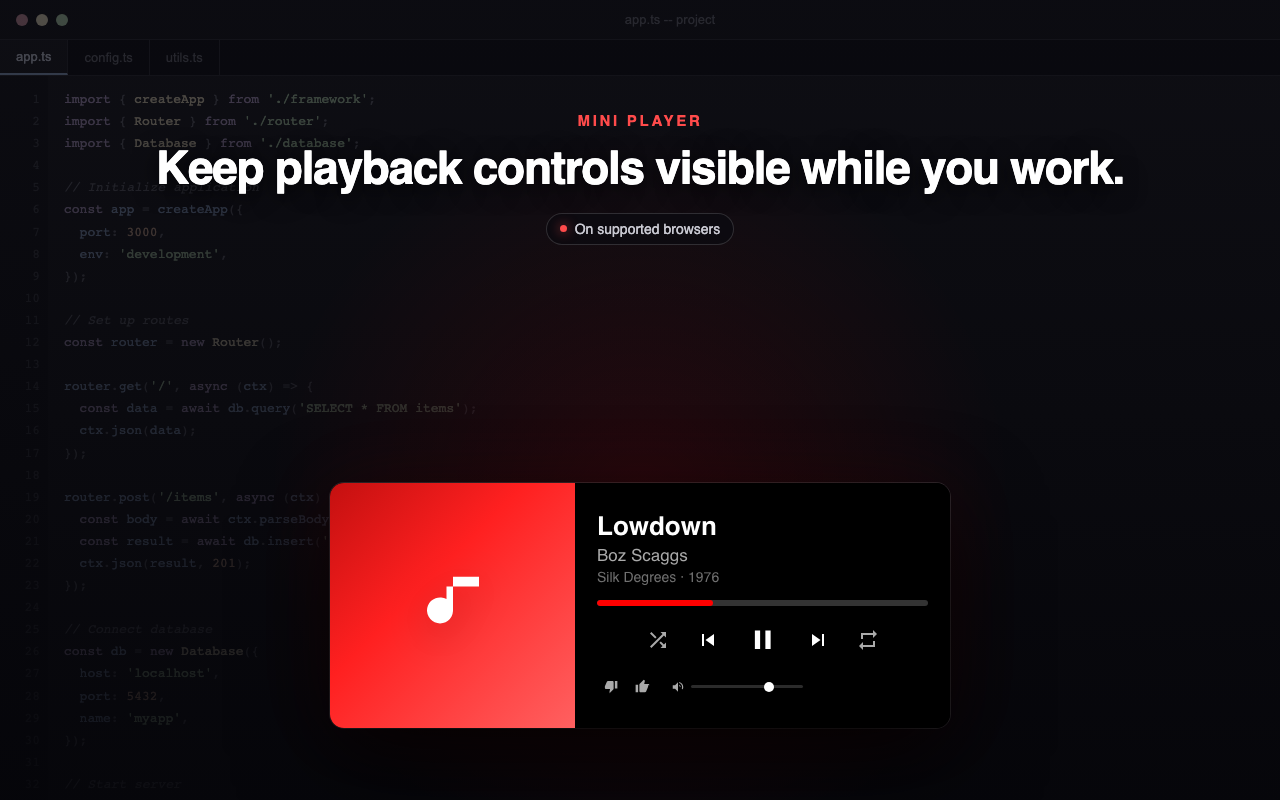
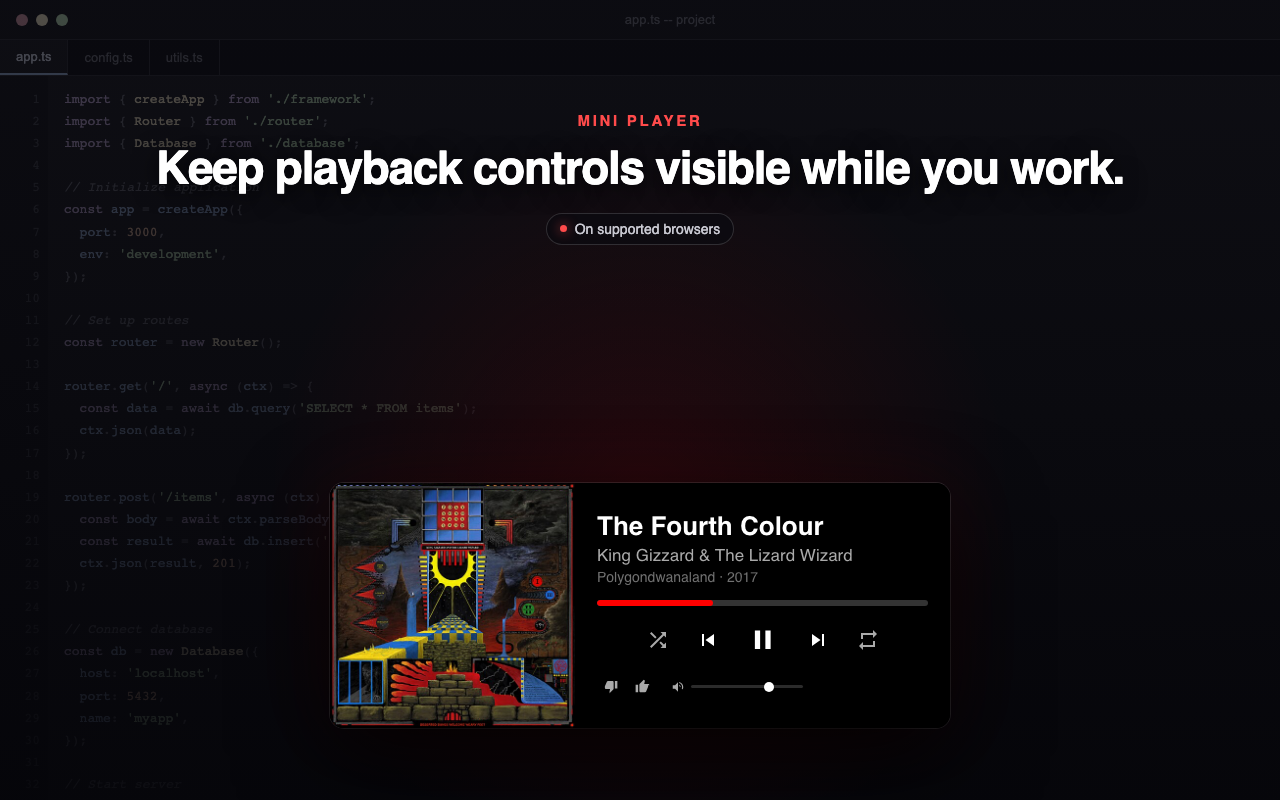
fix(store): use coherent licensed screenshot content

Changed region(s): [[0.25, 0.5938, 0.6562, 0.9375]]

diff --git a/tests/e2e/windows-tray-connector.spec.ts b/tests/e2e/windows-tray-connector.spec.ts
@@ -14,7 +14,6 @@ import {
 
 const execFile = promisify(execFileCallback);
 const SCREENSHOT_PATH_ENV = "YTME_WINDOWS_TRAY_SCREENSHOT_PATH";
-const SCREENSHOT_PLAYBACK_URL_ENV = "YTME_WINDOWS_TRAY_SCREENSHOT_PLAYBACK_URL";
 const SIGNED_INSTALLER_PATH_ENV = "YTME_WINDOWS_TRAY_SIGNED_INSTALLER_PATH";
 const HOLD_RELEASE_PATH_ENV = "YTME_WINDOWS_TRAY_HOLD_RELEASE_PATH";
 const HOLD_TIMEOUT_ENV = "YTME_WINDOWS_TRAY_HOLD_TIMEOUT_SECONDS";
@@ -29,19 +28,6 @@ interface TrayElementSnapshot {
 
 function windowsTraySmokeEnabled(): boolean {
   return process.env.YTME_E2E_WINDOWS_TRAY === "1";
-}
-
-function screenshotPlaybackUrl(): string | null {
-  const value = process.env[SCREENSHOT_PLAYBACK_URL_ENV]?.trim();
-  if (!value) return null;
-
-  const url = new URL(value);
-  if (url.protocol !== "https:" || url.hostname !== "music.youtube.com") {
-    throw new Error(
-      `${SCREENSHOT_PLAYBACK_URL_ENV} must be an https://music.youtube.com URL.`,
-    );
-  }
-  return url.toString();
 }
 
 function signedInstallerPath(): string | null {
@@ -779,6 +765,35 @@ function trayProgressPercent(snapshot: TrayElementSnapshot): number {
   return percent;
 }
 
+async function publishFixturePlaybackState(page: Page): Promise<void> {
+  await page.evaluate(() => {
+    const video = document.querySelector<HTMLVideoElement>(
+      "video.html5-main-video",
+    );
+    if (!video) {
+      throw new Error("Playback fixture is missing its media element.");
+    }
+
+    video.dispatchEvent(new Event("timeupdate"));
+  });
+}
+
+function promoResultPath(resultPath: string, label: string): string {
+  return resultPath.replace(/\.json$/i, `-${label}.json`);
+}
+
+async function unregisterYtmServiceWorkers(page: Page): Promise<void> {
+  if (!page.url().startsWith("https://music.youtube.com/")) return;
+
+  await page.evaluate(async () => {
+    const registrations = await navigator.serviceWorker.getRegistrations();
+    await Promise.all(
+      registrations.map((registration) => registration.unregister()),
+    );
+  });
+  await page.goto("about:blank");
+}
+
 async function holdTrayConnectionIfRequested(): Promise<void> {
   const releasePath = process.env[HOLD_RELEASE_PATH_ENV]?.trim();
   if (!releasePath) return;
@@ -821,54 +836,64 @@ async function captureTrayPromoScreenshot(
   ]);
 }
 
-async function loadLivePlaybackForScreenshot(
-  page: Page,
-  playbackUrl: string,
-): Promise<void> {
-  await page.goto(playbackUrl, {
-    waitUntil: "domcontentloaded",
-    timeout: 120_000,
-  });
-  await page.bringToFront();
-  await page
-    .waitForLoadState("networkidle", { timeout: 30_000 })
-    .catch(() => undefined);
-  await page.waitForFunction(
-    () => {
-      const video = document.querySelector<HTMLVideoElement>(
-        "video.html5-main-video",
-      );
-      const player = document.querySelector<HTMLElement>("#movie_player");
-      return (
-        video !== null &&
-        Number.isFinite(video.duration) &&
-        video.duration >= 60 &&
-        video.readyState >= HTMLMediaElement.HAVE_CURRENT_DATA &&
-        !player?.classList.contains("ad-showing")
-      );
-    },
-    undefined,
-    { timeout: 180_000 },
-  );
-  await page.waitForTimeout(3500);
-}
-
-async function captureLiveTrayPromoScreenshot(
+async function captureDeterministicTrayPromoScreenshot(
   playbackPage: Page,
   resultPath: string,
   screenshotPath: string,
   trayLogPath: string,
 ): Promise<void> {
-  const playbackUrl = screenshotPlaybackUrl();
-  if (!playbackUrl) {
-    throw new Error(
-      `Set ${SCREENSHOT_PLAYBACK_URL_ENV} to the approved Creative Commons ` +
-        `YouTube Music track before setting ${SCREENSHOT_PATH_ENV}.`,
-    );
-  }
+  await unregisterYtmServiceWorkers(playbackPage);
+  await loadYtmFixtureThroughExtension(playbackPage, "player-loaded-paused");
+  await expect
+    .poll(
+      async () => {
+        await publishFixturePlaybackState(playbackPage);
+        return readTrayPopupElement(
+          "promo-playback-state",
+          promoResultPath(resultPath, "title"),
+          "A Walk",
+        );
+      },
+      { timeout: 30_000 },
+    )
+    .toMatchObject({ enabled: true, name: "A Walk" });
 
-  await loadLivePlaybackForScreenshot(playbackPage, playbackUrl);
-  await expectTrayLogContains(trayLogPath, "current artwork displayed url=");
+  const album = await readTrayPopupElement(
+    "promo-album",
+    promoResultPath(resultPath, "album"),
+    "Dive",
+  );
+  expect(album).toMatchObject({ enabled: true, name: "Dive" });
+
+  const artistYear = await readTrayPopupElement(
+    "promo-artist-year",
+    promoResultPath(resultPath, "artist-year"),
+    "Tycho - 2011",
+  );
+  expect(artistYear).toMatchObject({ enabled: true, name: "Tycho - 2011" });
+
+  const nextTrack = await readTrayPopupElement(
+    "promo-next-track",
+    promoResultPath(resultPath, "next-track"),
+    "Send And Receive (Chachi Jones Remix)",
+  );
+  expect(nextTrack).toMatchObject({
+    enabled: true,
+    name: "Send And Receive (Chachi Jones Remix)",
+  });
+
+  const promoProgress = await readTrayPopupElement(
+    "promo-progress",
+    promoResultPath(resultPath, "progress"),
+    "Playback progress",
+  );
+  expect(trayProgressPercent(promoProgress)).toBeGreaterThan(52);
+  expect(trayProgressPercent(promoProgress)).toBeLessThan(60);
+
+  await expectTrayLogContains(
+    trayLogPath,
+    "current artwork loaded packaged url=https://ytm-enhancer.local/demo-current-artwork.png",
+  );
   await captureTrayPromoScreenshot(resultPath, screenshotPath);
 }
 
@@ -1200,8 +1225,8 @@ test("routes Windows tray buttons through the browser native messaging host", as
       enabled: true,
       name: "Playback progress",
     });
-    expect(trayProgressPercent(initialProgress)).toBeGreaterThan(25);
-    expect(trayProgressPercent(initialProgress)).toBeLessThan(32);
+    expect(trayProgressPercent(initialProgress)).toBeGreaterThan(52);
+    expect(trayProgressPercent(initialProgress)).toBeLessThan(60);
 
     await clickTrayPopupElement(
       "play",
@@ -1414,7 +1439,7 @@ test("routes Windows tray buttons through the browser native messaging host", as
       .toMatchObject({ enabled: true, name: "Focus YouTube Music" });
 
     if (promoScreenshotPath && testInfo.project.name === "edge") {
-      await captureLiveTrayPromoScreenshot(
+      await captureDeterministicTrayPromoScreenshot(
         ytmPage,
         testInfo.outputPath("tray-screenshot.json"),
         promoScreenshotPath,

diff --git a/store/screenshots/02-mini-player.html b/store/screenshots/02-mini-player.html
@@ -198,20 +198,8 @@
       .pip-artwork {
         width: 100%;
         height: 100%;
-        display: grid;
-        place-items: center;
-        background: linear-gradient(
-          135deg,
-          #c41010 0%,
-          #ff2020 40%,
-          #ff6060 100%
-        );
-      }
-      .pip-artwork svg {
-        width: 78px;
-        height: 78px;
-        color: #fff;
-        filter: drop-shadow(0 10px 20px rgba(0, 0, 0, 0.22));
+        display: block;
+        object-fit: cover;
       }
 
       .pip-content {
@@ -585,21 +573,19 @@
       <div class="pip-body">
         <div class="pip">
           <div class="pip-artwork-container">
-            <div class="pip-artwork">
-              <svg viewBox="0 0 24 24" aria-hidden="true">
-                <path
-                  fill="currentColor"
-                  d="M12 3v10.55A4 4 0 1 1 10 9.88V6h10V3h-8z"
-                />
-              </svg>
-            </div>
+            <!-- Artwork provenance: see docs/third-party-notices.md. -->
+            <img
+              class="pip-artwork"
+              src="./assets/mini-player-cover.png"
+              alt="Polygondwanaland album cover"
+            />
           </div>
 
           <div class="pip-content">
             <div class="pip-meta">
-              <div class="pip-title">Lowdown</div>
-              <div class="pip-artist">Boz Scaggs</div>
-              <div class="pip-album">Silk Degrees &middot; 1976</div>
+              <div class="pip-title">The Fourth Colour</div>
+              <div class="pip-artist">King Gizzard &amp; The Lizard Wizard</div>
+              <div class="pip-album">Polygondwanaland &middot; 2017</div>
             </div>
 
             <div class="pip-progress-container">

diff --git a/tests/remote-qa-windows.test.ts b/tests/remote-qa-windows.test.ts
@@ -3477,7 +3477,7 @@ try {
     expect(releaseScreenshot).toContain(
       "$env:YTME_WINDOWS_TRAY_SCREENSHOT_PATH",
     );
-    expect(releaseScreenshot).toContain(
+    expect(releaseScreenshot).not.toContain(
       "$env:YTME_WINDOWS_TRAY_SCREENSHOT_PLAYBACK_URL",
     );
     expect(releaseScreenshot).toContain(
@@ -3485,7 +3485,7 @@ try {
     );
     expect(releaseScreenshot).toContain("[string] $SignedInstallerPath");
     expect(releaseScreenshot).toContain("Get-AuthenticodeSignature");
-    expect(releaseScreenshot).toContain(
+    expect(releaseScreenshot).not.toContain(
       "approved Creative Commons YouTube Music track",
     );
     expect(releaseScreenshot).toContain("Remove-Item Env:YTM_TRAY_VISUAL_DEMO");
@@ -3499,7 +3499,7 @@ try {
     expect(releaseScreenshotShell).toContain(
       "scripts\\windows-qa\\tray-release-screenshot.ps1",
     );
-    expect(releaseScreenshotShell).toContain("-PlaybackUrl");
+    expect(releaseScreenshotShell).not.toContain("-PlaybackUrl");
     expect(releaseScreenshotShell).toContain(
       "YTME_WINDOWS_TRAY_SIGNED_INSTALLER_PATH",
     );

diff --git a/tests/e2e/fixtures/player-loaded-paused.html b/tests/e2e/fixtures/player-loaded-paused.html
@@ -76,8 +76,8 @@
           src="https://ytm-enhancer.local/demo-current-artwork.png"
         />
       </div>
-      <span id="time-info">1:23 / 4:56</span>
-      <input id="progress-bar" max="296" min="0" type="range" value="83" />
+      <span id="time-info">2:58 / 5:17</span>
+      <input id="progress-bar" max="317" min="0" type="range" value="178" />
       <video class="html5-main-video"></video>
       <ytmusic-player-queue-item selected>
         <img
@@ -98,7 +98,7 @@
           src="https://ytm-enhancer.local/demo-next-artwork.png"
         />
         <yt-formatted-string class="song-title">
-          Send And Receive
+          Send And Receive (Chachi Jones Remix)
         </yt-formatted-string>
         <yt-formatted-string class="byline">
           <a href="/channel/fixture">Tycho</a>

diff --git a/docs/remote-qa.md b/docs/remote-qa.md
@@ -1090,16 +1090,14 @@ desktop/overflow/popup screenshots under the Windows user's temp directory,
 verifies long metadata scrolls, and removes the smoke install.
 
 Regenerate the Windows tray release screenshot from the same active Windows
-desktop session. Use the approved Creative Commons YouTube Music track URL so
-the checked-in promo image shows live artwork read through the connector, not
-fixture artwork. On a machine enforcing Smart App Control, first download the
+desktop session. The capture reloads the deterministic connector fixture so the
+checked-in Windows and macOS promo images show the same track metadata and
+artwork. On a machine enforcing Smart App Control, first download the
 Microsoft-signed candidate installer. Store it outside the Windows remote QA
 work root. Then provide that path so the connector smoke does not replace it
 with unsigned source-built binaries:
 
 ```powershell
-$env:YTME_WINDOWS_TRAY_SCREENSHOT_PLAYBACK_URL = `
-  "https://music.youtube.com/watch?v=<approved-track-id>"
 $env:YTME_WINDOWS_TRAY_SIGNED_INSTALLER_PATH = `
   "C:\path\to\YTM-Tray-X.Y.Z-Setup.exe"
 pwsh -NoProfile -ExecutionPolicy Bypass -File `
@@ -1109,17 +1107,15 @@ pwsh -NoProfile -ExecutionPolicy Bypass -File `
 Run the same capture through the configured Windows transport:
 
 ```sh
-YTME_WINDOWS_TRAY_SCREENSHOT_PLAYBACK_URL=\
-"https://music.youtube.com/watch?v=<approved-track-id>" \
 YTME_WINDOWS_TRAY_SIGNED_INSTALLER_PATH=\
 'C:\path\to\YTM-Tray-X.Y.Z-Setup.exe' \
 scripts/remote/windows-qa/tray-release-screenshot.sh
 ```
 
 This runs the real Windows tray app against the Edge Connected Apps smoke,
-verifies button behavior against the local fixture, switches to the approved
-live YouTube Music track for the screenshot, captures the tray popup after
-artwork has been downloaded by the tray app, and copies the PNG back to
+verifies button behavior, reloads the deterministic playback fixture for the
+screenshot, captures the tray popup after artwork has been downloaded by the
+tray app, and copies the PNG back to
 `apps/windows-tray/release/windows-tray-screenshot.png`. The signed candidate
 mode verifies the installer's Authenticode signature, installs its embedded
 runtime to the smoke's temporary root, and uninstalls it through the installed
@@ -1253,7 +1249,6 @@ The remote QA scripts accept these variables:
 - `REMOTE_QA_WINDOWS_WORK_ROOT`
 - `REMOTE_QA_WINDOWS_SSH_KEY`
 - `YTM_WINDOWS_QA_UI_READY_TIMEOUT_SECONDS`
-- `YTME_WINDOWS_TRAY_SCREENSHOT_PLAYBACK_URL`
 - `YTME_WINDOWS_TRAY_SIGNED_INSTALLER_PATH`
 
 Keep real values local. If the remote address changes, update `.remote-qa.env`

diff --git a/docs/third-party-notices.md b/docs/third-party-notices.md
@@ -10,3 +10,14 @@ public domain dedication.
 Brand names, logos, and trademarks remain the property of their respective
 owners. Their use in YTM Enhancer is only to identify external resources and
 extension store destinations.
+
+## Mini Player Screenshot Artwork
+
+The Mini Player store screenshot uses the cover of King Gizzard & the Lizard
+Wizard's _Polygondwanaland_, designed by Jason Galea. The band released the
+cover worldwide into the public domain and granted unrestricted use where a
+public-domain waiver is not legally possible.
+
+The source and reviewed license details are documented on
+[Wikimedia Commons](https://commons.wikimedia.org/wiki/File:Polygondwanaland.jpg).
+The local copy is resized for the store screenshot.
